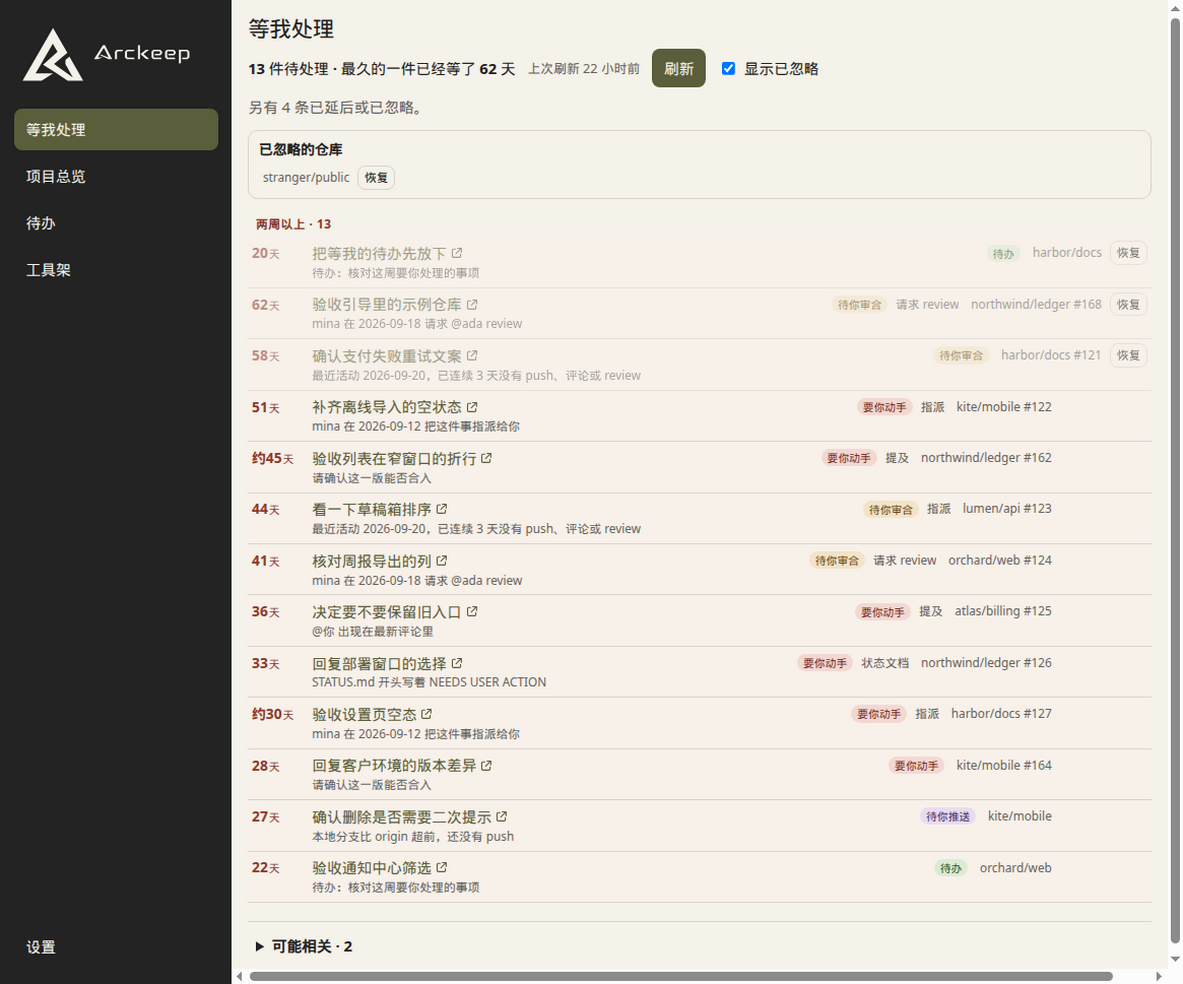
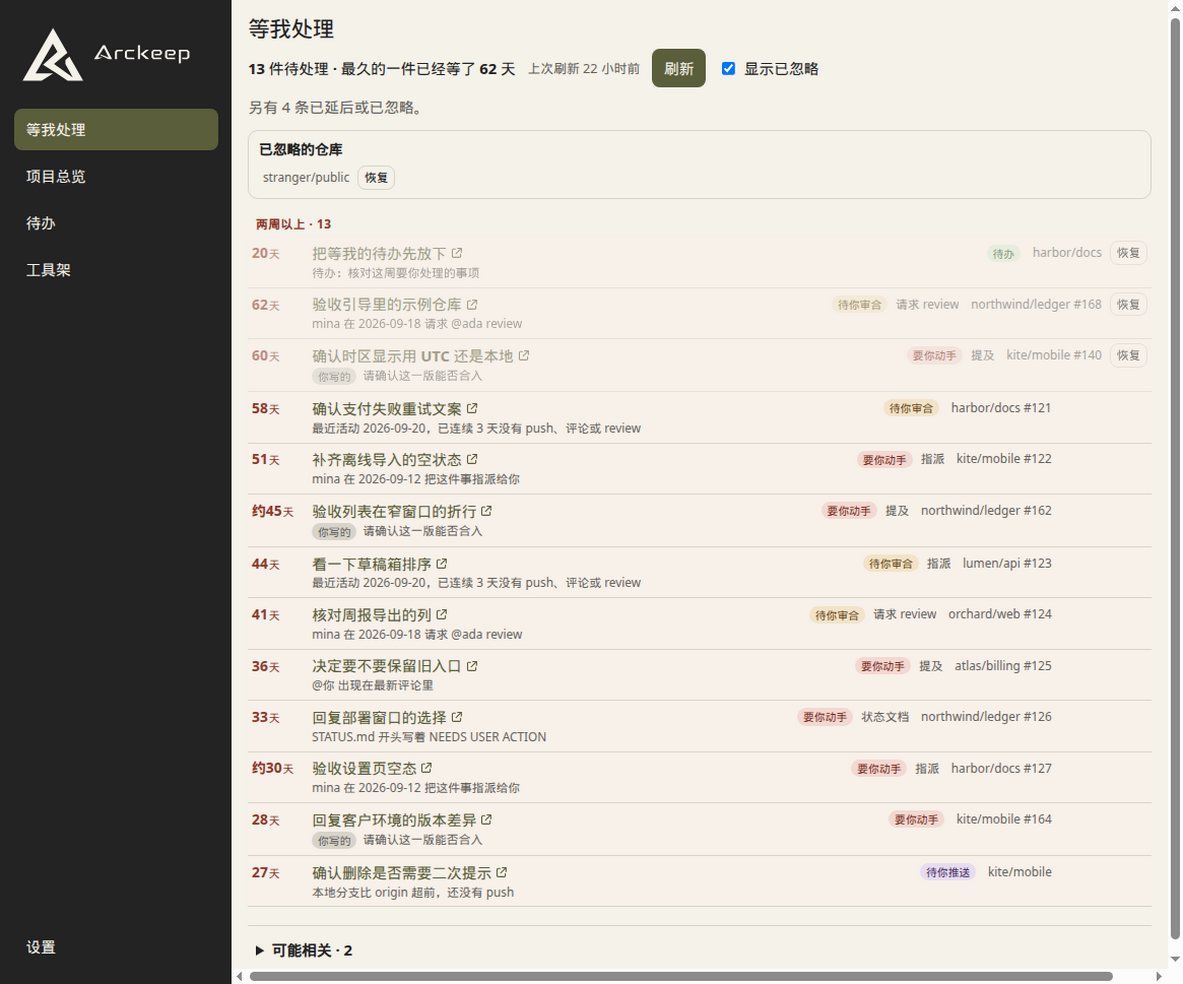
Mark a main-list row when the latest request is the signed-in user's own.
The excerpt stays their original sentence, with a gray 「你写的」 label in front. Someone else's request keeps the existing label.

diff --git a/test/waiting-rules.test.ts b/test/waiting-rules.test.ts
@@ -4,6 +4,7 @@ import path from 'node:path'
 import { describe, expect, it } from 'vitest'
 import { userDataDir, waitingDismissalPath } from '../src/main/paths.js'
 import { assembleWaiting } from '../src/shared/waiting/assemble.js'
+import { ownRequestLabel } from '../src/renderer/waiting-page.js'
 import { classifyRecord } from '../src/shared/waiting/classify.js'
 import { repoIsParked } from '../src/shared/waiting/text-scan.js'
 import { effectiveHiddenRepos } from '../src/shared/waiting/snooze.js'
@@ -1379,6 +1380,30 @@ describe('synthetic fixtures for each waiting rule', () => {
       labels: ['bug']
     }), rules, NOW)
     expect(missed).toBeNull()
+  })
+
+  it('labels the signed-in user\'s own latest request and leaves someone else\'s unmarked', () => {
+    const sentence = '请确认能否合入'
+    const own = main({
+      kind: 'issue',
+      number: 32,
+      title: 'Own ask',
+      viewerLogin: 'ada',
+      comments: [{ body: sentence, authorLogin: 'ada', createdAt: '2026-09-22T00:00:00.000Z' }]
+    })
+    expect(ownRequestLabel(own ?? {})).toBe('你写的')
+    expect(own?.signal.excerpt).toBe(sentence)
+    expect(own?.signal.excerpt.includes('你写的')).toBe(false)
+    const other = main({
+      kind: 'issue',
+      number: 33,
+      title: 'Their ask',
+      viewerLogin: 'ada',
+      comments: [{ body: sentence, authorLogin: 'mina', createdAt: '2026-09-22T00:00:00.000Z' }]
+    })
+    expect(ownRequestLabel(other ?? {})).toBeNull()
+    expect(other?.signal.excerpt).toBe(sentence)
+    expect(other?.signal.own).toBeUndefined()
   })
 
   it('uses the configured request verbs, including 定夺', () => {

diff --git a/src/main/screenshot-run.ts b/src/main/screenshot-run.ts
@@ -408,6 +408,20 @@ export async function presentScreenshot(options: {
                         ? '可能相关 · 6'
                         : '速率限制'
     await waitUntil(contents, includesText(expected), expected)
+    if (scene === 'waiting') {
+      await contents.executeJavaScript(`
+        const own = [...document.querySelectorAll('.waiting-reason')].find(node => node.querySelector('.chip-own'))
+        if (!own) throw new Error('own request label missing')
+        const label = own.querySelector('.chip-own')?.textContent?.trim() ?? ''
+        if (label !== '你写的') throw new Error('own label: ' + label)
+        const text = own.textContent ?? ''
+        if (!text.includes('请确认这一版能否合入')) throw new Error('own excerpt missing: ' + text)
+        const foreign = [...document.querySelectorAll('.waiting-reason')].find(node => (node.textContent ?? '').includes('请求 @ada review'))
+        if (!foreign) throw new Error('other request missing')
+        if (foreign.querySelector('.chip-own')) throw new Error('other request labeled 你写的')
+        true
+      `)
+    }
     if (scene === 'waiting-related' || scene === 'waiting-related-open' || scene === 'waiting-maybe-only' || scene === 'waiting-maybe-collapsed') {
       await contents.executeJavaScript(`
         const details = document.querySelector('details.maybe-related')

diff --git a/src/renderer/waiting-page.ts b/src/renderer/waiting-page.ts
@@ -14,6 +14,15 @@ const ACTION_CLASS: Record<string, string> = {
 /** Mention-only rows are not a request to act. */
 export const MENTION_ONLY_LABEL = '只是提及'
 
+/** The main-list excerpt is the signed-in user's own latest request. */
+export const OWN_REQUEST_LABEL = '你写的'
+
+export function ownRequestLabel(row: { tier?: 'strong' | 'weak', ownRequest?: boolean, signal?: { own?: boolean } }): string | null {
+  const own = row.ownRequest === true || row.signal?.own === true
+  if ((row.tier ?? 'strong') !== 'strong' || !own) return null
+  return OWN_REQUEST_LABEL
+}
+
 export interface MaybeSectionMemory {
   whenEmpty: boolean | null
   whenListed: boolean | null
@@ -336,8 +345,12 @@ function renderRow(row: WaitingRow, handlers: {
   const body: Array<Node | string | null> = [days, title, chip, meta, actions]
   if (via) body.splice(3, 0, via)
   const excerpt = row.signalText.trim()
+  const ownLabel = ownRequestLabel(row)
   const reason = excerpt
-    ? el('p', { class: 'waiting-reason' }, [excerpt])
+    ? el('p', { class: 'waiting-reason' }, [
+      ...(ownLabel ? [el('span', { class: 'chip chip-own' }, [ownLabel])] : []),
+      excerpt
+    ])
     : row.tier === 'weak'
       ? null
       : el('p', { class: 'waiting-reason' }, [row.reasons.join(' · ') || '等待'])

diff --git a/src/shared/waiting/classify.ts b/src/shared/waiting/classify.ts
@@ -137,8 +137,8 @@ function quietOpenPrSignal(record: GithubRecord, days: number): WaitingSignal {
 
 function ensureExcerpt(signal: WaitingSignal): WaitingSignal {
   const excerpt = signal.excerpt.trim()
-  if (excerpt) return { rule: signal.rule, excerpt }
-  return { rule: signal.rule, excerpt: signal.rule || '等待' }
+  const kept = excerpt ? { rule: signal.rule, excerpt } : { rule: signal.rule, excerpt: signal.rule || '等待' }
+  return signal.own ? { ...kept, own: true } : kept
 }
 
 function fallbackUpdated(reason: string, record: GithubRecord, at: string | null): ClassifiedReason {
@@ -236,7 +236,7 @@ export function classifyRecord(record: GithubRecord, config: WaitingConfig, now:
   if (showText && text && textReason) {
     reasons.push(fallbackUpdated(textReason, record, text.at))
     tier = 'strong'
-    if (!review) signal = { rule: text.rule, excerpt: text.excerpt }
+    if (!review) signal = text.own ? { rule: text.rule, excerpt: text.excerpt, own: true } : { rule: text.rule, excerpt: text.excerpt }
     else signal = { rule: signal?.rule ?? text.rule, excerpt: `${signal?.excerpt ?? reviewExcerpt(record)}。${text.excerpt}` }
   }
   if (label && (humanAllowed || record.kind === 'pr')) {

diff --git a/src/shared/waiting/text-scan.ts b/src/shared/waiting/text-scan.ts
@@ -350,6 +350,8 @@ export interface TextHit {
   rule: string
   excerpt: string
   at: string | null
+  /** The hit is the signed-in user's own latest explicit request. */
+  own?: boolean
 }
 
 function clipSentence(sentence: string): string {
@@ -439,7 +441,7 @@ function scanPlace(text: string, at: string | null, config: WaitingConfig, viewe
 function ownRequest(text: string, at: string | null, config: WaitingConfig, viewer: string, names: readonly RegExp[]): TextHit | null {
   for (const sentence of splitSentences(text)) {
     const request = explicitRequest(sentence.text, config, viewer, names)
-    if (request) return { rule: '明确请求', excerpt: request, at }
+    if (request) return { rule: '明确请求', excerpt: request, at, own: true }
   }
   return null
 }

diff --git a/src/shared/waiting/sample.ts b/src/shared/waiting/sample.ts
@@ -67,7 +67,7 @@ export function sampleWaitingRows(): WaitingRow[] {
   const days = [
     64, 58, 51, 44, 41, 36, 33, 30, 27, 24,
     22, 21, 19, 18, 16, 15, 14, 13, 12, 11,
-    10, 9, 8, 7, 6, 6, 5, 5, 4, 4,
+    60, 9, 8, 7, 6, 6, 5, 5, 4, 4,
     3, 3, 2, 2, 2, 1, 1, 1, 1, 0,
     0, 0, 45, 39, 28, 17, 9, 4, 62, 3,
     8, 1
@@ -126,6 +126,7 @@ export function sampleWaitingRows(): WaitingRow[] {
       waitingDays,
       daysEstimated: index % 7 === 0,
       signalText,
+      ownRequest: tier === 'strong' && signalText === '请确认这一版能否合入',
       tier,
       updatedAt: '2026-09-01T00:00:00.000Z',
       ignored: false

diff --git a/src/shared/waiting/types.ts b/src/shared/waiting/types.ts
@@ -176,6 +176,8 @@ export interface ReasonDetail {
 export interface WaitingSignal {
   rule: string
   excerpt: string
+  /** The excerpt is the signed-in user's own latest explicit request. */
+  own?: boolean
 }
 
 export interface WaitingDraft {
@@ -239,6 +241,8 @@ export interface WaitingRow {
   childCount: number
   /** One line explaining why this row is here. Same text as the JSON signal excerpt. */
   signalText: string
+  /** Main-list excerpt is the signed-in user's own latest explicit request. */
+  ownRequest: boolean
   tier: WaitingTier
 }
 

diff --git a/src/renderer/styles.css b/src/renderer/styles.css
@@ -664,6 +664,12 @@ textarea {
 }
 
 .chip-mention { background: var(--arckeep-soft-stone); color: var(--arckeep-muted-graphite); }
+.chip-own {
+  margin-right: 6px;
+  vertical-align: middle;
+  background: var(--arckeep-soft-stone);
+  color: var(--arckeep-muted-graphite);
+}
 .chip-act-do { background: #F3D9D2; color: #7A2E22; }
 .chip-act-review { background: #F3E4C8; color: #6A4A16; }
 .chip-act-push { background: #E8DDF0; color: #4C3268; }

diff --git a/src/shared/waiting/snooze.ts b/src/shared/waiting/snooze.ts
@@ -107,6 +107,7 @@ export function partitionDismissals(
       parent: draft.parent,
       childCount: 0,
       signalText: draft.tier === 'weak' ? draft.signal.excerpt.trim() : (draft.signal.excerpt || draft.signal.rule),
+      ownRequest: draft.tier === 'strong' && draft.signal.own === true,
       tier: draft.tier
     })
   }
